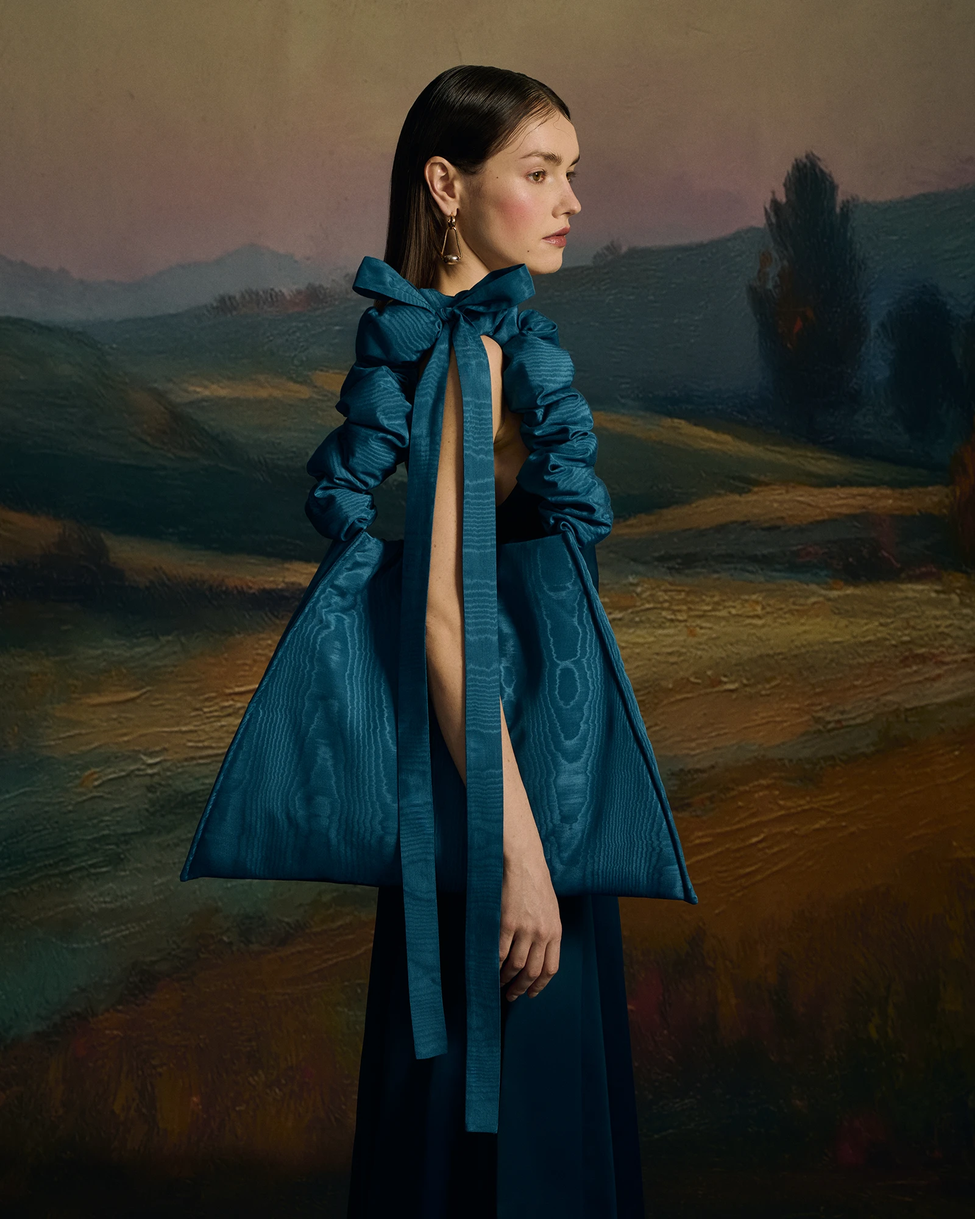
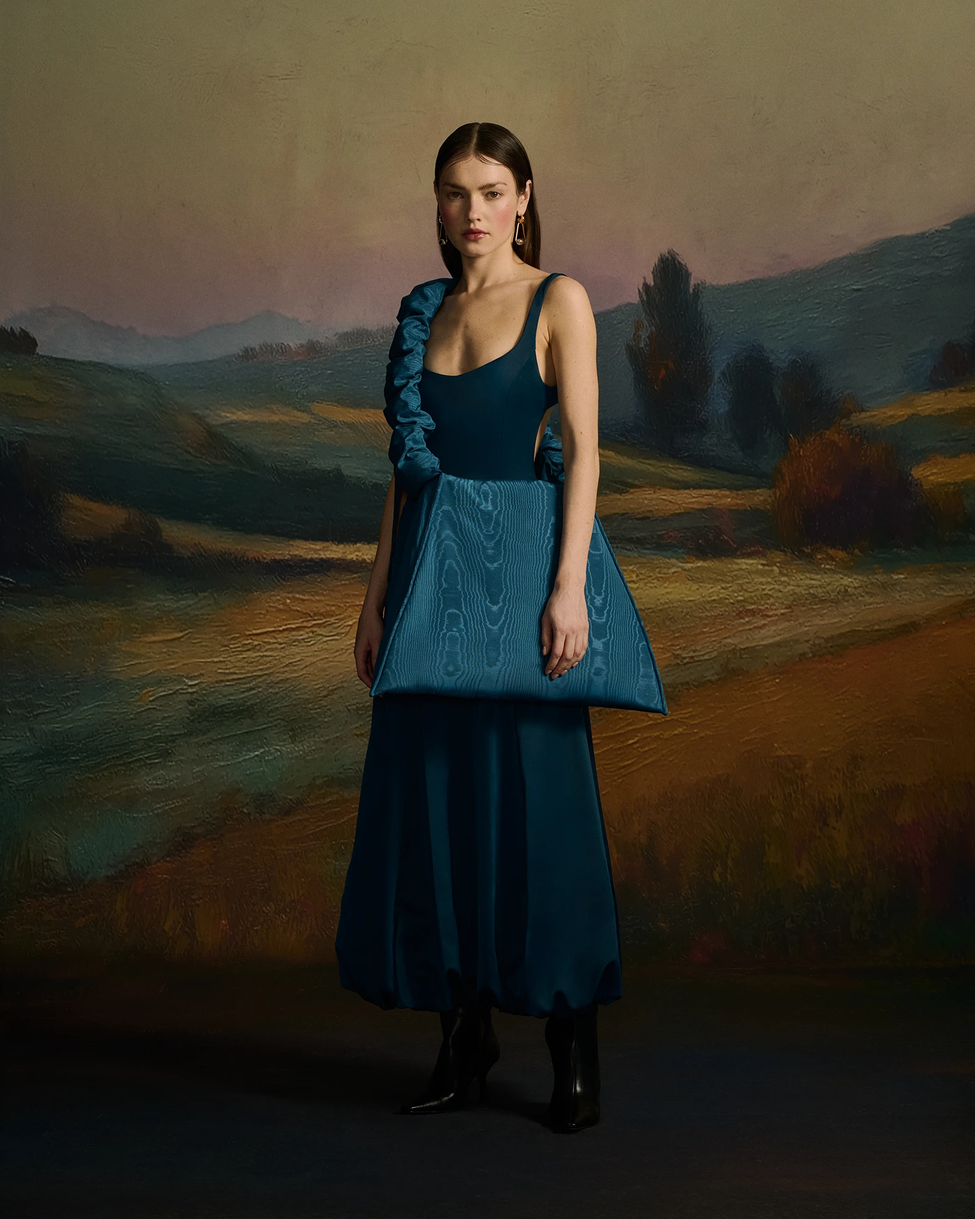
update

diff --git a/js/data.js b/js/data.js
@@ -29,14 +29,14 @@ function buildDeliveryDetails(model) {
 
 function buildModelDescription(model, materialType) {
   if (model === 'Faworytka') {
-    return 'FAWORYTKA to mniejsza siostra FAWORYTY. To ten sam silny charakter, ale w bardziej kompaktowym rozmiarze. Posiada miękką, plastyczną konstrukcję, dzięki której materiał swobodnie pracuje i opalizuje, zmieniając kolor zależnie od kąta padania światła.<br><br>FAWORYTKA to model, w którym świat geometrii spotyka się z organiczną miękkością. O nieoczywistym charakterze torby decyduje autorska rączka. Ten dekoracyjny detal łączy ozdobną formę z funkcjonalnością, skrywając wewnątrz mechanizm regulacji jej długości. FAWORYTKA naturalnie dopasuje się do odważnych stylizacji, ale również świetnie sprawdzi się w minimalistycznych outfitach, stając się najmocniejszym akcentem, który zdefiniuje cały Twój look. Zaprojektowana i uszyta w Polsce.';
+    return 'FAWORYTKA to mniejsza siostra FAWORYTY. To ten sam silny charakter, ale w bardziej kompaktowym rozmiarze. Posiada miękką, plastyczną konstrukcję, dzięki której materiał swobodnie pracuje i opalizuje, zmieniając kolor zależnie od kąta padania światła.<span class="model-desc-break"></span>FAWORYTKA to model, w którym świat geometrii spotyka się z organiczną miękkością. O nieoczywistym charakterze torby decyduje autorska rączka. Ten dekoracyjny detal łączy ozdobną formę z funkcjonalnością, skrywając wewnątrz mechanizm regulacji jej długości. FAWORYTKA naturalnie dopasuje się do odważnych stylizacji, ale również świetnie sprawdzi się w minimalistycznych outfitach, stając się najmocniejszym akcentem, który zdefiniuje cały Twój look. Zaprojektowana i uszyta w Polsce.';
   }
 
   if (materialType === 'morowa') {
-    return 'Duża, wyrazista torba typu statement, która pomi  eści wszystkie Twoje historie. Posiada usztywniające wypełnienie, które podkreśla architektoniczną, trapezową formę dołu torby.<br><br>FAWORYTA to model, w którym świat geometrii spotyka się z organiczną miękkością. O nieoczywistym charakterze torby decyduje autorska rączka. Ten dekoracyjny detal łączy ozdobną formę z funkcjonalnością, skrywając wewnątrz mechanizm regulacji jej długości. FAWORYTA naturalnie dopasuje się do odważnych stylizacji, ale również świetnie sprawdzi się w minimalistycznych outfitach, stając się najmocniejszym akcentem, który zdefiniuje cały Twój look. Zaprojektowana i uszyta w Polsce.';
+    return 'Duża, wyrazista torba typu statement, która pomi  eści wszystkie Twoje historie. Posiada usztywniające wypełnienie, które podkreśla architektoniczną, trapezową formę dołu torby.<span class="model-desc-break"></span>FAWORYTA to model, w którym świat geometrii spotyka się z organiczną miękkością. O nieoczywistym charakterze torby decyduje autorska rączka. Ten dekoracyjny detal łączy ozdobną formę z funkcjonalnością, skrywając wewnątrz mechanizm regulacji jej długości. FAWORYTA naturalnie dopasuje się do odważnych stylizacji, ale również świetnie sprawdzi się w minimalistycznych outfitach, stając się najmocniejszym akcentem, który zdefiniuje cały Twój look. Zaprojektowana i uszyta w Polsce.';
   }
 
-  return 'Duża, wyrazista torba typu statement, która pomieści wszystkie Twoje historie. Posiada miękką, plastyczną konstrukcję, dzięki której materiał swobodnie pracuje i opalizuje, zmieniając kolor zależnie od kąta padania światła.<br><br>FAWORYTA to model, w którym świat geometrii spotyka się z organiczną miękkością. O nieoczywistym charakterze torby decyduje autorska rączka. Ten dekoracyjny detal łączy ozdobną formę z funkcjonalnością, skrywając wewnątrz mechanizm regulacji jej długości. FAWORYTA naturalnie dopasuje się do odważnych stylizacji, ale również świetnie sprawdzi się w minimalistycznych outfitach, stając się najmocniejszym akcentem, który zdefiniuje cały Twój look. Zaprojektowana i uszyta w Polsce.';
+  return 'Duża, wyrazista torba typu statement, która pomieści wszystkie Twoje historie. Posiada miękką, plastyczną konstrukcję, dzięki której materiał swobodnie pracuje i opalizuje, zmieniając kolor zależnie od kąta padania światła.<span class="model-desc-break"></span>FAWORYTA to model, w którym świat geometrii spotyka się z organiczną miękkością. O nieoczywistym charakterze torby decyduje autorska rączka. Ten dekoracyjny detal łączy ozdobną formę z funkcjonalnością, skrywając wewnątrz mechanizm regulacji jej długości. FAWORYTA naturalnie dopasuje się do odważnych stylizacji, ale również świetnie sprawdzi się w minimalistycznych outfitach, stając się najmocniejszym akcentem, który zdefiniuje cały Twój look. Zaprojektowana i uszyta w Polsce.';
 }
 
 function buildMaterialDetails(materialType) {

diff --git a/css/style.css b/css/style.css
@@ -467,7 +467,7 @@ body.legal-page {
 .legal-divider {
   width: 100%;
   margin: 1.125rem 0 1.3rem;
-  border-top: 1px solid rgba(251, 223, 203, 0.72);
+  border-top: 1px solid var(--text-color);
 }
 
 .privacy-policy-page .legal-divider {
@@ -532,7 +532,7 @@ body.legal-page {
   width: min(100%, 58rem);
   margin: 1.3rem auto 0;
   padding-top: 1rem;
-  border-top: 1px solid rgba(251, 223, 203, 0.72);
+  border-top: 1px solid var(--text-color);
   text-align: center;
 }
 
@@ -623,7 +623,7 @@ body.legal-page {
   }
 
   .legal-container {
-    padding: 4rem clamp(3rem, 8vw, 5rem) 1.625rem;
+    padding: 4rem clamp(3rem, 8vw, 5rem) 0rem;
   }
 
   .legal-intro {
@@ -682,7 +682,7 @@ body.legal-page {
   .legal-footer {
     margin-top: 1.5rem;
     padding-top: 1.4375rem;
-    padding-bottom: 0.25rem;
+    padding-bottom: 3.125rem;
   }
 
   .legal-footer-title {
@@ -825,7 +825,7 @@ body.home-page .home-container {
   letter-spacing: .0313rem;
   line-height: 1.25;
   /* max-width: 26rem; */
-  text-align: center;
+  /* text-align: center; */
 }
 
 .products-grid {
@@ -1024,6 +1024,12 @@ body.home-page .home-container {
   text-align: left;
   /* letter-spacing: .03125rem; do 13px */
   letter-spacing: .0313rem;
+}
+
+.model-desc-break {
+  display: block;
+  /* height: 0.75rem; */
+  margin: 1rem 0;
 }
 
 /* .gallery {
@@ -1432,7 +1438,7 @@ body.product-lightbox-open {
   display: grid;
   grid-template-columns: repeat(3, 1fr);
   gap: 0;
-  margin-bottom: 1.875rem;
+  margin-bottom: 1.75rem;
 }
 
 .about-moodboard-desktop,
@@ -1448,9 +1454,7 @@ body.product-lightbox-open {
 }
 
 .about-outro {
-  margin-bottom: 1.4063rem;
-  padding-bottom: 2.8125rem;
-  border-bottom: 1px solid var(--text-color);
+  margin-bottom: 1.75rem;
 }
 
 .about-paragraph-outro {
@@ -1463,14 +1467,56 @@ body.product-lightbox-open {
   margin-bottom: 1.4063rem;
 }
 
+@media (max-width: 1023.98px) {
+  .about-container {
+    display: flex;
+    flex-direction: column;
+  }
+
+  .about-intro {
+    order: 1;
+  }
+
+  .about-moodboard-second {
+    order: 2;
+    padding-bottom: 0;
+    border-bottom: none;
+    margin-bottom: 1.75rem;
+  }
+
+  .about-outro {
+    order: 3;
+    margin-bottom: 1.75rem;
+  }
+
+  .about-moodboard:not(.about-moodboard-second) {
+    order: 4;
+    padding-bottom: 1.875rem;
+    border-bottom: 1px solid var(--text-color);
+    margin-bottom: 1rem;
+  }
+
+  .about-container > .about-moodboard:not(.about-moodboard-second) .about-moodboard-image:nth-child(2) {
+    order: 3;
+  }
+
+  .about-container > .about-moodboard:not(.about-moodboard-second) .about-moodboard-image:nth-child(3) {
+    order: 2;
+  }
+
+  .about-footer {
+    order: 5;
+  }
+}
+
 .about-footer {
   text-align: center;
 }
 
 .about-footer-title {
-  font-size: .875rem;
+  font-size: 1rem;
+  letter-spacing: .5728px;
   font-weight: 100;
-  letter-spacing: .0313rem;
   text-transform: uppercase;
   margin-bottom: .9375rem;
 }
@@ -1530,15 +1576,20 @@ body.product-lightbox-open {
     margin: 0 auto;
     padding: 7.1875rem 7.5rem 2.8125rem;
     padding: 7rem 7.5rem 0;
+    display: grid;
+    grid-template-columns: repeat(6, minmax(0, 1fr));
+    column-gap: 0;
   }
 
   .about-intro {
+    grid-column: 1 / -1;
+    grid-row: 1;
     margin-bottom: 2rem;
   }
 
   .about-title {
     font-size: 4rem;
-    /* margin-bottom: 2.25rem; */
+    margin-bottom: 2.25rem;
     padding-bottom: 1.25rem;
   }
 
@@ -1553,10 +1604,22 @@ body.product-lightbox-open {
 
   .about-moodboard {
     display: grid;
-    grid-template-columns: repeat(6, 1fr);
+    grid-template-columns: repeat(3, 1fr);
+    grid-column: 1 / 4;
+    grid-row: 2;
     gap: 0;
     margin-bottom: 1.8125rem;
     padding: 0;
+  }
+
+  .about-moodboard-second {
+    display: grid;
+    grid-template-columns: repeat(3, 1fr);
+    grid-column: 4 / 7;
+    grid-row: 2;
+    margin-bottom: 1.8125rem;
+    padding: 0;
+    border-bottom: none;
   }
 
   .about-moodboard .about-moodboard-image {
@@ -1564,19 +1627,33 @@ body.product-lightbox-open {
   }
 
   .about-outro {
-    padding-bottom: 3rem;
-    margin-bottom: 1.4375rem;
+    grid-column: 1 / -1;
+    grid-row: 3;
+    padding-bottom: 2.25rem;
+    margin-bottom: 0;
     border-bottom: 1px solid var(--text-color);
   }
 
   .about-footer {
-    padding-bottom: 2.375rem;
+    grid-column: 1 / -1;
+    grid-row: 4;
+    padding-top: 1.4375rem;
+    padding-bottom: 3.125rem;
   }
 
   .about-footer-title {
     font-size: 1.4375rem;
     margin-bottom: .9375rem;
     letter-spacing: 0.06rem;
+  }
+
+  .about-socials {
+    gap: 0.8125rem;
+  }
+
+  .about-social-icon {
+    width: 1.625rem;
+    height: 1.625rem;
   }
 }
 
@@ -1703,6 +1780,7 @@ body.product-lightbox-open {
     margin: 1.375rem auto 1.8rem;
     max-width: 50rem;
     font-size: .9375rem;
+    letter-spacing: .0335rem;
     text-align: center;
   }
 

diff --git a/o-marce/index.html b/o-marce/index.html
@@ -72,19 +72,22 @@
             </p>
         </section>
 
-        <section class="about-moodboard" aria-label="Moodboard Cemborka">
+        <section class="about-moodboard" aria-label="Moodboard Cemborka część 1">
             <img src="images/MOODBOARD-01.webp" alt="Moodboard 01" class="about-moodboard-image">
             <img src="images/MOODBOARD-02.webp" alt="Moodboard 02" class="about-moodboard-image">
             <img src="images/MOODBOARD-03.webp" alt="Moodboard 03" class="about-moodboard-image">
-            <img src="images/MOODBOARD-04.webp" alt="Moodboard 04" class="about-moodboard-image">
-            <img src="images/MOODBOARD-05.webp" alt="Moodboard 05" class="about-moodboard-image">
-            <img src="images/MOODBOARD-06.webp" alt="Moodboard 06" class="about-moodboard-image">
         </section>
 
         <section class="about-outro">
             <p class="about-paragraph about-paragraph-outro">
                 Pierwsza kolekcja powstała z końcówek serii unikatowych tkanin, co podkreśla nasze zaangażowanie w modę odpowiedzialną i świadome wykorzystywanie zasobów. Torebki są projektowane oraz szyte w Polsce z najwyższą starannością oraz dbałością o detale, od projektu po ostatni szew.
             </p>
+        </section>
+
+        <section class="about-moodboard about-moodboard-second" aria-label="Moodboard Cemborka część 2">
+            <img src="images/MOODBOARD-04.webp" alt="Moodboard 04" class="about-moodboard-image">
+            <img src="images/MOODBOARD-05.webp" alt="Moodboard 05" class="about-moodboard-image">
+            <img src="images/MOODBOARD-06.webp" alt="Moodboard 06" class="about-moodboard-image">
         </section>
 
         <section class="about-footer" id="kontakt">

diff --git a/css/desktop.css b/css/desktop.css
@@ -183,6 +183,10 @@ body.product-page .product-details-column {
   display: none;
 }
 
+.model-desc-break {
+    margin: 0.5rem 0;
+  }
+
 .product-details-column .description-collapse-inline {
   display: inline;
   margin-left: 0.25rem;
@@ -487,7 +491,7 @@ body.product-page .product-details-column {
 body.product-page .desktop-gallery-container {
   max-width: none;
   width: 100%;
-  height: auto;
+  /* height: auto; */
   max-height: 100%;
   aspect-ratio: 3 / 4;
 }

diff --git a/js/script.js b/js/script.js
@@ -1228,7 +1228,7 @@ function setupProductImageZoom(product, container) {
 
 function buildDesktopDescriptionMarkup(descriptionText) {
   const text = (descriptionText || '').trim();
-  const marker = 'długości.';
+  const marker = 'Ten dekoracyjny detal łączy ozdobną formę z funkcjonalnością,';
   const markerIndex = text.indexOf(marker);
 
   if (markerIndex === -1) {
